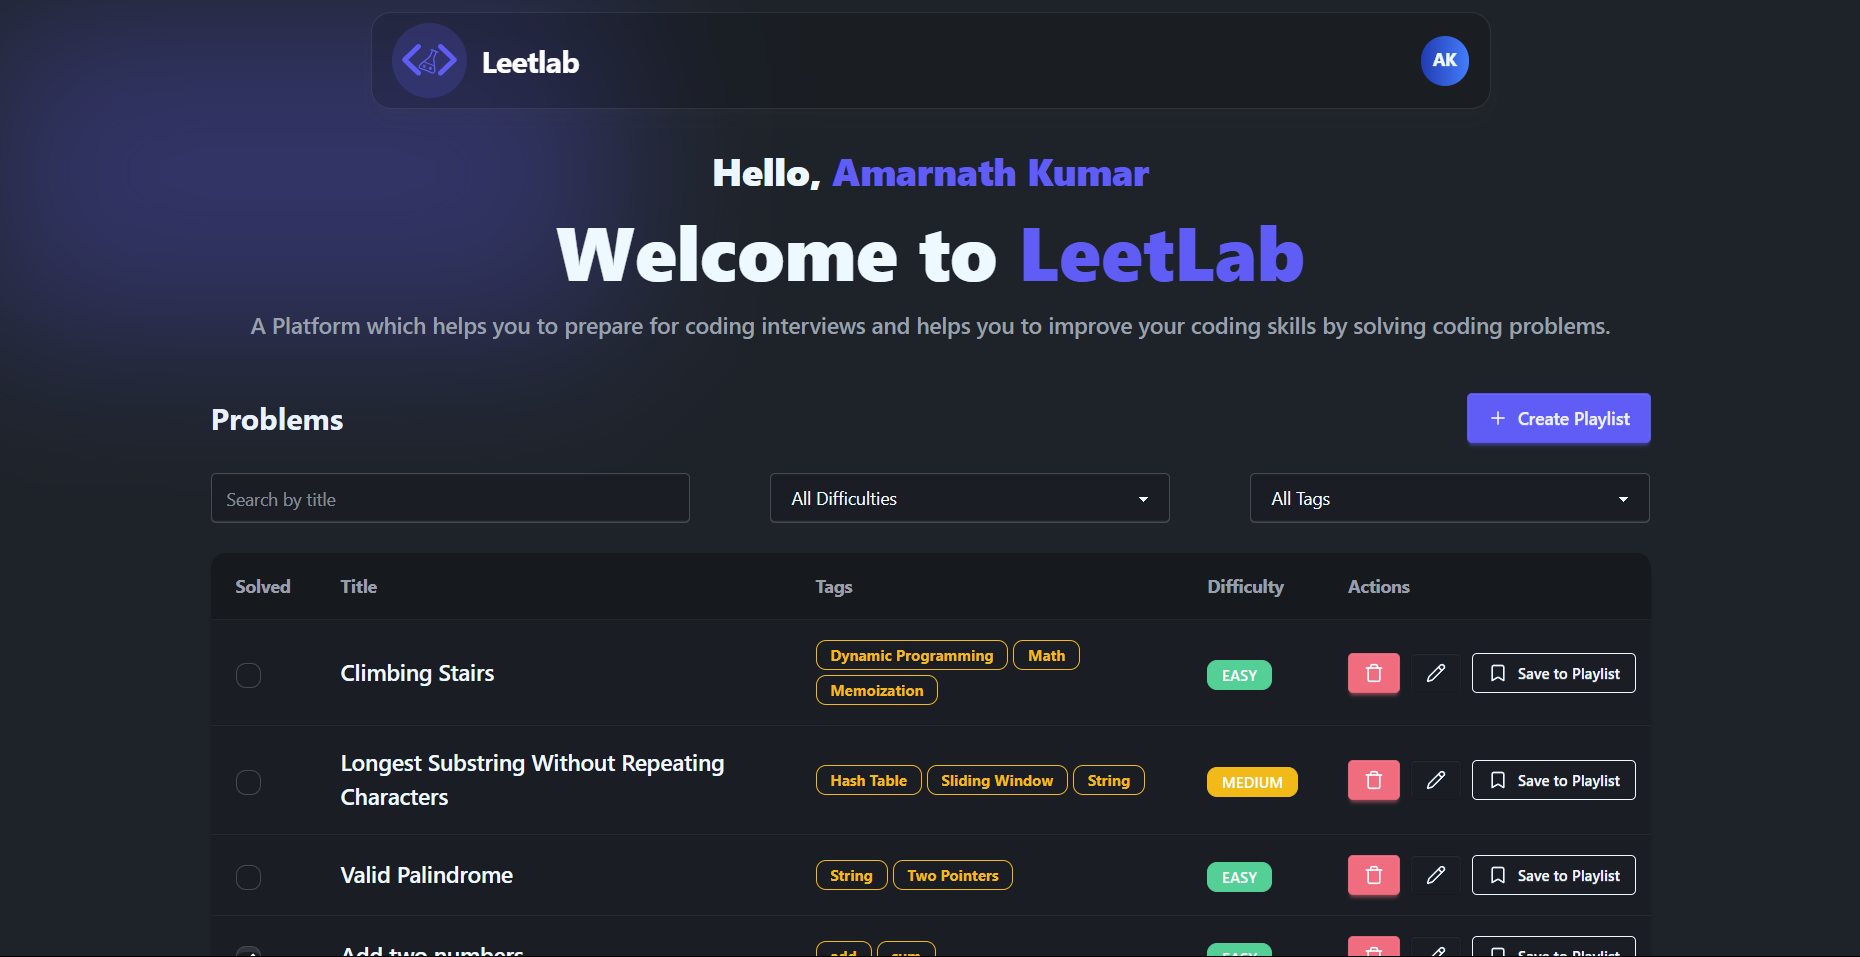
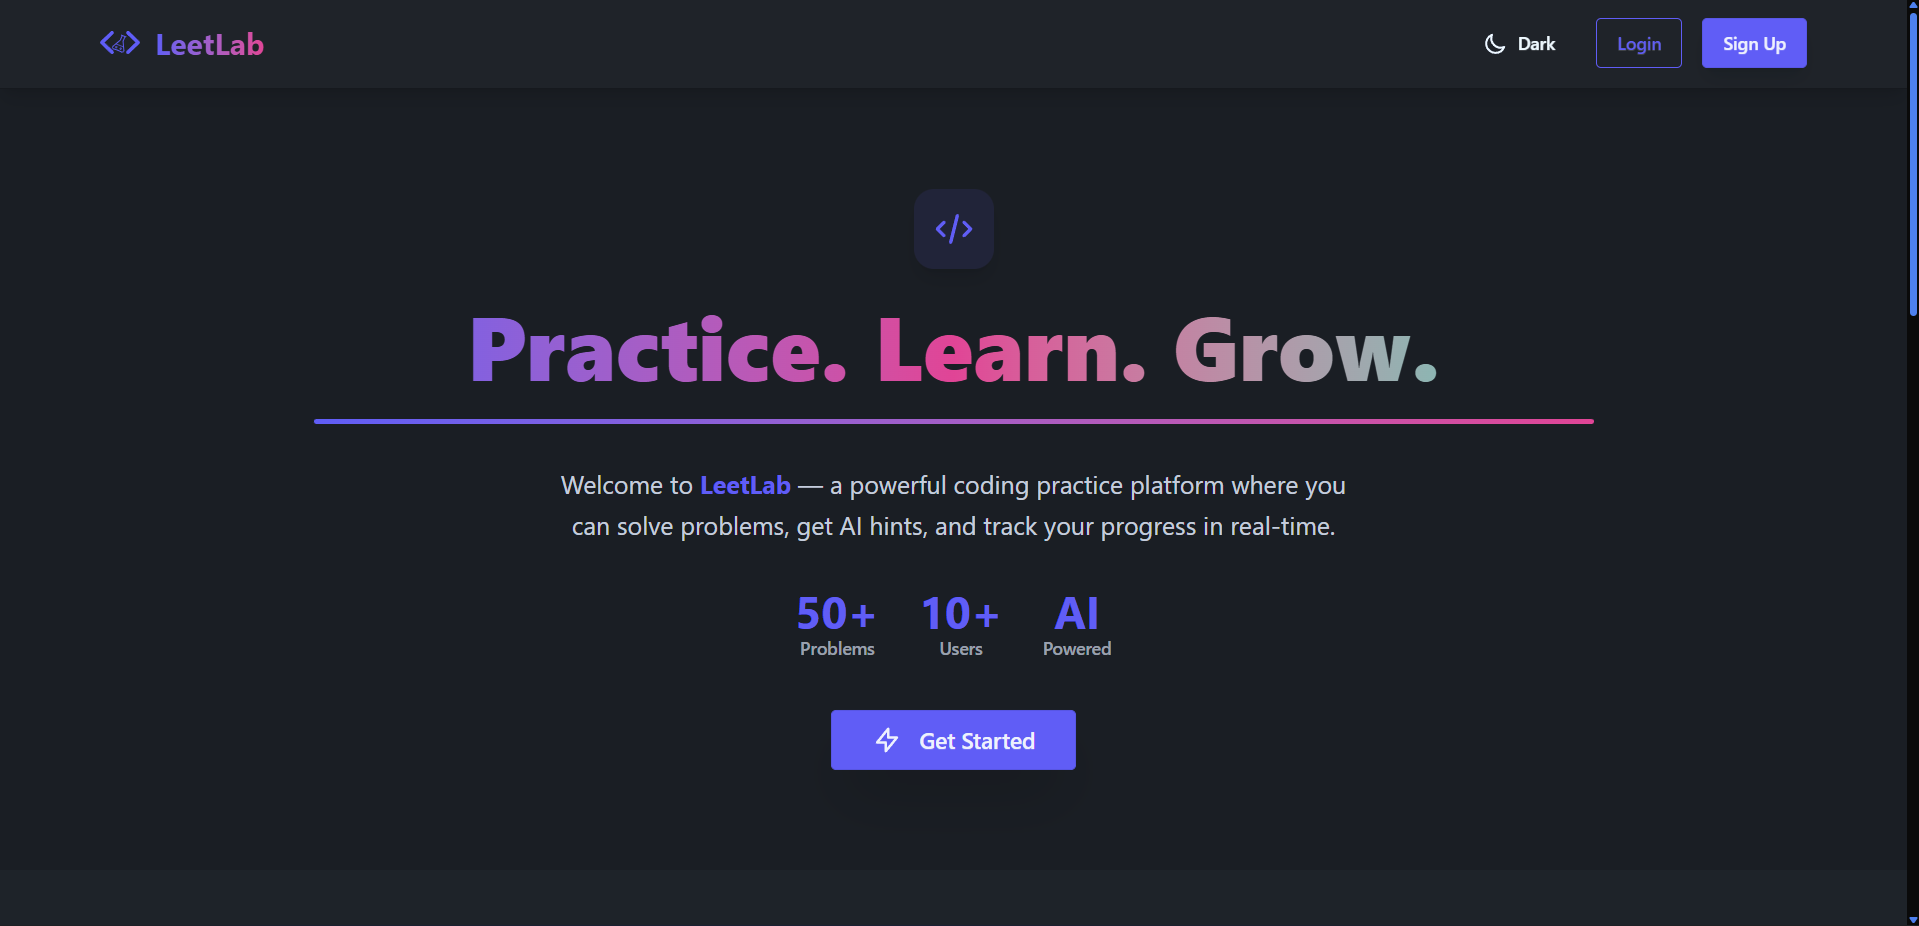
fix: Update project details for AuthCore, including title, description, and links

diff --git a/src/components/Portfolio.jsx b/src/components/Portfolio.jsx
@@ -21,12 +21,12 @@ const projects = [
   },
   {
     img: project8,
-    title: "StudyNotion",
+    title: "AuthCore",
     description:
-      "StudyNotion is a fully functional ed-tech platform that enables users to create, consume, and rate educational content.",
+      "AuthCore is a secure authentication app built with a React frontend and Node.js, Express, and MongoDB backend. It is designed around modern auth flows: registration with email verification, password and OTP login, reset-password flows, protected sessions, and device visibility.",
     links: {
-      site: "https://website-is-coming-soon.vercel.app/",
-      github: "https://github.com/Amarsah15/StudyNotion",
+      site: "https://authcore-rose.vercel.app",
+      github: "https://github.com/Amarsah15/AuthCore",
     },
   },
   {
